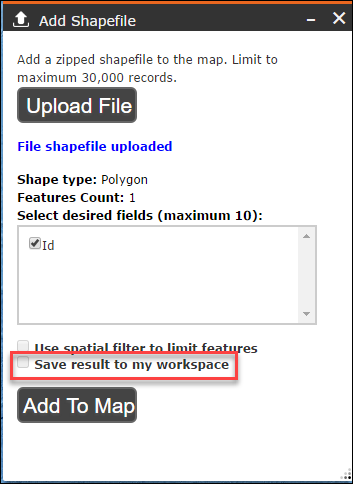
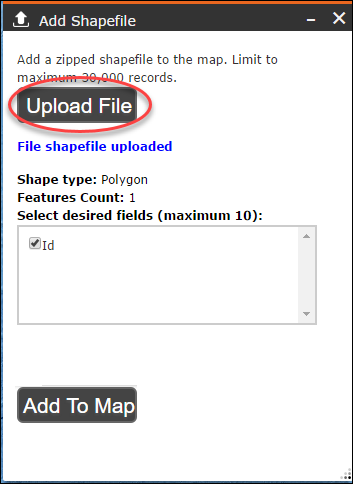
adds content

Changed region(s): [[0.0, 0.7128, 0.7479, 0.8058], [0.0, 0.155, 0.4363, 0.3099]]

diff --git a/Content/MapStudio/Functions/FilterAttributeTable.htm b/Content/MapStudio/Functions/FilterAttributeTable.htm
@@ -1,0 +1,50 @@
+<?xml version="1.0" encoding="utf-8"?>
+<html xmlns:MadCap="http://www.madcapsoftware.com/Schemas/MadCap.xsd" MadCap:lastBlockDepth="4" MadCap:lastHeight="3271" MadCap:lastWidth="1233">
+    <head>
+    </head>
+    <body>
+        <h1>Filtering Layers in the Attribute Table</h1>
+        <p>Once you have uploaded multiple shapefiles into <MadCap:variable name="General.ProductName" /> as polygons and have them displayed in <MadCap:variable name="General.MapStudio" />, you may find it difficult to find the polygon you wish to view. When this occurs you may find it helpful to filter your shapefiles using the attribute table. </p>
+        <div class="noteIFTDSS" MadCap:autonum="&lt;b&gt;Note: &lt;/b&gt;">Filtering works in the Attribute Table for all operational layers, but we will use shapefiles for this particular example.</div>
+        <p>Follow the steps below to filter by attribute.</p>
+        <MadCap:dropDown>
+            <MadCap:dropDownHead>
+                <MadCap:dropDownHotspot>Steps 1 - 4 :&#160;Selecting and viewing layers in the attribute table</MadCap:dropDownHotspot>
+            </MadCap:dropDownHead>
+            <MadCap:dropDownBody>
+                <p><b>Step 1:</b> Open the Attribute Table using the <span class="UIcomponent">Attribute Table</span> button <img src="../../Resources/Images/attributes_filter_polys/image00_2.png" alt="attribute table"></img>located in the bottom right of <MadCap:variable name="General.MapStudio"></MadCap:variable>. </p>
+                <p>Open <span class="UIcomponent">Layer List</span> <img src="../../Resources/Images/mapstudio/button_layerlist.png" alt="layer list button" /> and ensure the only the layers you wish to have included in your filter are selected, in this example only the Shapes layer is selected. This will automatically bring up all attributes from those layers, by default they are filtered by map extent.</p>
+                <p>
+                    <img src="../../Resources/Images/attributes_filter_polys/image06.png" style="width: 858px;height: 554px;" alt="map studio map with attribute table visible under the map" />
+                </p>
+                <p><b>Step 2:</b> Click on Filter by Map Extent along the top of the Attribute Table to disable this option (the text for this option will appear grayed out when it is disabled).</p>
+                <p>
+                    <img src="../../Resources/Images/attributes_filter_polys/image05.png" alt="attribute table with filter by map extent turned off" style="width: 796px;height: 254px;" />
+                </p>
+                <p><b>Step 3</b>:&#160;You can select the your desired polygon by left clicking once anywhere in the gray space to the left of each row. Selected rows will be highlighted in blue.</p>
+                <p>
+                    <img src="../../Resources/Images/attributes_filter_polys/image01.png" alt="attribute table with a blue highlighted row indicating it is selected" style="width: 624px;height: 289px;" />
+                </p>
+                <p>Step 4:&#160;Use the <span class="UIcomponent">Zoom To</span> option to zoom to selected polygons in <MadCap:variable name="General.MapStudio" />. Note selected polygons also show up in the same blue color as their selected rows in the Attribute Table.</p>
+                <p>
+                    <img src="../../Resources/Images/attributes_filter_polys/image02.png" alt="selected polygon shows up as blue when zoomed to in the map" style="width: 552px;height: 558px;" />
+                </p>
+            </MadCap:dropDownBody>
+        </MadCap:dropDown>
+        <MadCap:dropDown>
+            <MadCap:dropDownHead>
+                <MadCap:dropDownHotspot>Steps 5 and 6: Filtering using Queries</MadCap:dropDownHotspot>
+            </MadCap:dropDownHead>
+            <MadCap:dropDownBody>
+                <p><b>Step 5</b>:&#160;To only show specific polygons based on specific filter criteria, select <span class="UIcomponent">Filter</span> under <span class="UIcomponent">Options</span> <img src="../../Resources/Images/attributes_filter_polys/options.png" alt="options button" />. This allows you to filter by using one criteria by <span class="UIcomponent">Adding a Filter Expression</span>, or by using a set of criteria by <span class="UIcomponent">Adding an Expression Set</span>.</p>
+                <p>
+                    <img src="../../Resources/Images/attributes_filter_polys/image04.png" alt="the filter option with choices to add a filter expression or add a filter expression set" />
+                </p>
+                <p>Once you choose whether to use a single filter expression or an expression set, use the drop down fields to select your attribute, such as name, and your conditional statement, in this case, 'contains'. Next, type the specific value or term to filter, and select <span class="UIcomponent">OK</span>. For example, in the image below, we have created a filter expression that will only show polygons in which the attribute name contains 'Pete'. </p>
+                <p>
+                    <img src="../../Resources/Images/attributes_filter_polys/image03.png" alt="specifying the name and filter criteria in the provided text fields" />
+                </p>
+            </MadCap:dropDownBody>
+        </MadCap:dropDown>
+    </body>
+</html>

diff --git a/Content/MapStudio/Functions/AttributeTable.htm b/Content/MapStudio/Functions/AttributeTable.htm
@@ -1,0 +1,53 @@
+<?xml version="1.0" encoding="utf-8"?>
+<html xmlns:MadCap="http://www.madcapsoftware.com/Schemas/MadCap.xsd" MadCap:lastBlockDepth="6" MadCap:lastHeight="1304" MadCap:lastWidth="1207">
+    <head>
+    </head>
+    <body>
+        <h1>Attribute Table</h1>
+        <p>
+            <img src="../../Resources/Images/attributes_filter_polys/attribute_table.png" alt="Attribute table provides information on operational layers in a tabular format" style="width: 1030px;height: 187px;" />
+        </p>
+        <p>The<span class="UIcomponent"> Attribute Table</span> button in <MadCap:variable name="General.MapStudio" /> displays a tabular view of operational layers' attributes. You may show or hide the attribute table at the bottom of your map by selecting the <span class="UIcomponent">Attribute Table </span>button <img src="../../Resources/Images/attributes_filter_polys/image00_2.png" alt="Attribute Table button" />. Attributes available in the table include:&#160;</p>
+        <ul>
+            <li>ObjectID: Unique identification number for an object</li>
+            <li>Shape:&#160;<span class="comment" MadCap:conditions="General.DeveloperNotes">IBM fill in....</span></li>
+            <li>GIS_ID: <span class="comment" MadCap:conditions="General.DeveloperNotes">IBM fill in....</span></li>
+            <li>Name:&#160;Name of the object</li>
+            <li>XMin:&#160;Minimum X value </li>
+            <li>XMax:&#160;Maximum X value</li>
+            <li>YMin:&#160;Minimum Y value</li>
+            <li>YMax:&#160;Maximum Y value</li>
+            <li>Owner: Account owner who downloaded or created the object.</li>
+            <li>SHAPE_Length:&#160;Length of the shape <span class="comment" MadCap:conditions="General.DeveloperNotes">- do we need units here?</span></li>
+            <li>SHAPE_Area of the Shape <span class="comment" MadCap:conditions="General.DeveloperNotes">- do we need units here?</span></li>
+        </ul>
+        <MadCap:dropDown>
+            <MadCap:dropDownHead>
+                <MadCap:dropDownHotspot>Attribute Table Options</MadCap:dropDownHotspot>
+            </MadCap:dropDownHead>
+            <MadCap:dropDownBody>
+                <ul>
+                    <li><b>Show Selected Records</b>: Displays only selected records.</li>
+                    <li><b>Show Related Records</b>:&#160;Displays related records if a selected record has related table.</li>
+                    <li><b>Filter:&#160;Allows you to filter records in the table</b>. See the <a href="FilterAttributeTable.htm">Topic on Filtering Layers in the Attribute Table</a> for a more details.</li>
+                    <li><b>Show or Hide Columns</b>:&#160;This allows you to show or hide columns, you can also do this by selecting the + icon on the right side of the panel.</li>
+                    <li><b>Export to CSV</b>: Exports the attributes to a CSV file. If records are selected, only the selected records are exported. If no records are selected, all the records are exported. </li>
+                </ul>
+            </MadCap:dropDownBody>
+        </MadCap:dropDown>
+        <MadCap:dropDown>
+            <MadCap:dropDownHead>
+                <MadCap:dropDownHotspot>Other Attribute Table Controls</MadCap:dropDownHotspot>
+            </MadCap:dropDownHead>
+            <MadCap:dropDownBody>
+                <ul>
+                    <li><b>Filter by Map Extent</b>: <img src="../../Resources/Images/attributes_filter_polys/filter.png" alt="filter by map extent" /> Toggles between filtered results and unfiltered results in the Attribute Table</li>
+                    <li><b>Zoom To</b>:&#160;<img src="../../Resources/Images/attributes_filter_polys/zoomto.png" alt="zoom to" /> Zooms to a selected attribute within <MadCap:variable name="General.MapStudio" /></li>
+                    <li><b>Clear Selection</b>:<img src="../../Resources/Images/attributes_filter_polys/clearselection.png" alt="clear selection" />&#160;Clears your selections in the Attribute Table</li>
+                    <li><b>Refresh</b>:<img src="../../Resources/Images/attributes_filter_polys/refresh.png" alt="refresh" />&#160;Refreshes the Attribute Table with the most current data</li>
+                </ul>
+            </MadCap:dropDownBody>
+        </MadCap:dropDown>
+        <p>&#160;</p>
+    </body>
+</html>

diff --git a/Content/MapStudio/Files/ShapefileRepair.htm b/Content/MapStudio/Files/ShapefileRepair.htm
@@ -1,0 +1,32 @@
+<?xml version="1.0" encoding="utf-8"?>
+<html xmlns:MadCap="http://www.madcapsoftware.com/Schemas/MadCap.xsd" MadCap:lastBlockDepth="3" MadCap:lastHeight="2374" MadCap:lastWidth="1246">
+    <head>
+    </head>
+    <body>
+        <h1>How to Repair Uploaded Shapefiles</h1>
+        <p>When uploading shapefiles with multiple adjoining polygons, <MadCap:variable name="General.ProductName" /> will automatically join the polygons into a single dataset; this process may create erroneous gaps or vertices where these polygons once touched. The steps below outline the process of repairing or cleaning these polygons and re-saving them as a new shapefile. </p>
+        <p class="alertcomingsoon" MadCap:autonum="&lt;b&gt;More Functionality to Come! &lt;/b&gt;">These occasional gaps in adjoining polygons are a known issue which we will be resolving in a forthcoming version of <MadCap:variable name="General.ProductName" />.</p>
+        <h2>Step 1 Viewing your shapefile in <MadCap:variable name="General.MapStudio" /> </h2>
+        <p>Once you have <a href="../Functions/AddShapefile.htm">uploaded and saved your shapefile</a>, navigate to the <span class="UIcomponent">Layer List</span>, a checked box to the left of the shapefile confirms your layer is operational. If this box is not checked, click on the box to select it. If your shapefile is not visible in the <span class="UIcomponent">Layer List</span>, you may have to <a href="../Functions/ViewShapefileOnMap.htm">add it to your map</a>. Zoom to your shapefile by selecting the<span class="UIcomponent"> Zoom To</span> option under <span class="UIcomponent">More Options</span> in the top right of the <span class="UIcomponent">Layer List </span><img src="../../Resources/Images/mapstudio/button_moreoptions.png" />.</p>
+        <p>
+            <img src="../../Resources/Images/shapefile_repair/navigate_layerlist.png" alt="an icon with three dots in the top right of 'layer list' drops down the menu where you may 'zoom to' your shapefile." style="width: 346px;height: 383px;" />
+        </p>
+        <h2>Step 2 Enable Editing</h2>
+        <p>Open <b>Edit Tools</b> <img src="../../Resources/Images/mapstudio/button_editTools.png" alt="'edit tools' button" /> from the bottom of <MadCap:variable name="General.MapStudio" /> and</p>
+        <p> Select <span class="UIcomponent">Copy from Existing Features</span> <img src="../../Resources/Images/mapstudio/button_copy_exstng_ftrs.png" alt="Copy from existing features button" />. To only edit one polygon choose <span class="UIcomponent">Select Singlepart</span>, or edit multiple polygons choose <span class="UIcomponent">Select multipart</span>.</p>
+        <p> Scroll to the map and double left click the mouse button over the polygon you intend to edit, this will reveal the polygon vertices and an editing box</p>
+        <p>
+            <img src="../../Resources/Images/shapefile_repair/polygon_select.png" style="width: 562px;height: 402px;" alt="polygon in edit mode with vertices visible around the perimeter" />
+        </p>
+        <h2>Step 3 Edit your shapefile</h2>
+        <p>Move a vertex by hovering over it, holding down the left mouse key, and dragging it to the correct position. </p>
+        <p>Delete a vertex by hovering over it, clicking the right mouse button once, and selecting delete</p>
+        <p>
+            <img src="../../Resources/Images/shapefile_repair/polygon_vertexdelete.png" style="width: 610px;height: 433px;" alt="right clicking a vertex will cause the 'delete' option to pop up next to that vertex" />
+        </p>
+        <p>Continue your edits until you are satisfied with your shapefile. </p>
+        <h2>Step 4 Save your Edits</h2>
+        <p>When you are finished, save the corrections as a new shapefile by giving it a descriptive name in <span class="UIcomponent">Edit Tools</span>, specify the folder to save the file to, and select <span class="UIcomponent">Create</span>. The new shapefile will now be available in <span class="UIcomponent">MyWorkspace</span> for use throughout <MadCap:variable name="General.ProductName" />. <span class="comment" MadCap:conditions="General.DeveloperNotes">NOTE THIS&#160;FEATURE&#160;IS NOT&#160;WORKING&#160;CURRENTLY 2-28-17-JH</span></p>
+        <p>&#160;</p>
+    </body>
+</html>

diff --git a/Content/MapStudio/Functions/AddShapefile.htm b/Content/MapStudio/Functions/AddShapefile.htm
@@ -1,25 +1,22 @@
 <?xml version="1.0" encoding="utf-8"?>
-<html xmlns:MadCap="http://www.madcapsoftware.com/Schemas/MadCap.xsd" MadCap:lastBlockDepth="4" MadCap:lastHeight="1105" MadCap:lastWidth="2242">
+<html xmlns:MadCap="http://www.madcapsoftware.com/Schemas/MadCap.xsd" MadCap:lastBlockDepth="6" MadCap:lastHeight="3890" MadCap:lastWidth="1207">
     <head>
     </head>
     <body>
         <h1>Add a Shapefile</h1>
-        <p>Use the <span class="UIcomponent">Add Shapefile</span> <img src="../../Resources/Images/mapstudio/button_addshapefile.png" alt="orange add shapefile button" /> to add a shapefile in <MadCap:variable name="General.MapStudio" />. </p>
-        <ul>
-            <li>Select <span class="UIcomponent">Upload File</span>.</li>
-            <li>Choose your zipped shapefile</li>
-            <li>Select the desired fields from your shapefile using the checkbox next to each field name ( Up to 10)</li>
-            <li>Select <span class="UIcomponent">Upload File</span></li>
-            <li>Select <span class="UIcomponent">Add to Map</span></li>
-        </ul>
-        <div class="noteImportant" MadCap:autonum="&lt;b&gt;Important! &lt;/b&gt;">Uploaded shapefiles are visible on the map but are not automatically saved to <span class="UIcomponent">MyWorkspace</span>, they will be lost when you navigate away from <MadCap:variable name="General.MapStudio" /> unless they are saved to <span class="UIcomponent">MyWorkspace</span>. See the <b><a href="../Files/ShapefileSaving.htm">Topic on Saving Shapefiles</a></b> to complete this important step.</div>
-        <p MadCap:conditions="General.LaterRelease">
-            <img src="../../Resources/Images/mapstudio/box_AddShapefile.png" alt="Add shapefile box with the option to save the result to 'my workspace' highlighted" style="width: 281px;height: 385px;" />
+        <p>Use the <span class="UIcomponent">Add Shapefile</span> <img src="../../Resources/Images/mapstudio/button_addshapefile.png" alt="orange add shapefile button" /> to begin adding a shapefile in <MadCap:variable name="General.MapStudio" />. </p>
+        <p>Select <span class="UIcomponent">Upload File</span>.</p>
+        <p>
+            <img src="../../Resources/Images/mapstudio/box_AddShapefile.png" style="width: 291px;height: 398px;" alt="use the 'upload shapefile' button in the 'add shapefile' box to upload your zipped shapefiles" />
         </p>
-        <ul MadCap:conditions="General.LaterRelease">
-            <li>To save the shapefile, make sure to check <span class="UIcomponent">Save result to my workspace</span>.</li>
-            <li>When finished, click <span class="UIcomponent">Add to map</span>.</li>
-            <li>To add a shapefile to  it must contain shp, .shx, .dbf, and .prj files, and be in a compressed (zipped) file format. Visit the <a href="../Files/ShapefileInfo.htm">About Shapefiles topic</a> for full details on shapefiles in <MadCap:variable name="General.ProductName" />.</li>
-        </ul>
+        <p>Choose your zipped shapefile from your local drive</p>
+        <p>Select the desired fields from your shapefile using the checkbox next to each field name (Up to 10)</p>
+        <p>Select <span class="UIcomponent">Upload File</span></p>
+        <p>Select <span class="UIcomponent">Add to Map</span></p>
+        <p>Next you will save your shapefile.</p>
+        <p><a name="Saving_Shapefiles_for_Future_Use"></a>
+        </p>
+        <h2><a name="Saving"></a>Saving Shapefiles for Future Use</h2>
+        <MadCap:snippetBlock src="../../Resources/Snippets/MapStudio/ShapefileSaving.flsnp" />
     </body>
 </html>

diff --git a/Content/MapStudio/Files/ShapefileInfo.htm b/Content/MapStudio/Files/ShapefileInfo.htm
@@ -1,5 +1,5 @@
 <?xml version="1.0" encoding="utf-8"?>
-<html xmlns:MadCap="http://www.madcapsoftware.com/Schemas/MadCap.xsd" MadCap:lastBlockDepth="8" MadCap:lastHeight="4741" MadCap:lastWidth="1181">
+<html xmlns:MadCap="http://www.madcapsoftware.com/Schemas/MadCap.xsd" MadCap:lastBlockDepth="8" MadCap:lastHeight="4642" MadCap:lastWidth="1181">
     <head>
     </head>
     <body>
@@ -55,7 +55,7 @@
                     <li>Files containing more than 1,000 features cannot be added to a map.</li>
                     <li>The shapefile must be less than 10 MB in size.</li>
                     <li>The following features are not supported: multipatch or multipoint geometries, geometries that cross the dateline, or self-intersections in polygons. Shapefiles with these features cannot be added to a map.</li>
-                    <li>Shapefiles cannot be dragged directly onto <MadCap:variable name="General.MapStudio" />; you must use the Add Shapefile button in the <MadCap:variable name="General.MapStudio" />.</li>
+                    <li>Shapefiles cannot be dragged directly onto <MadCap:variable name="General.MapStudio" />; you must use the <span class="UIcomponent">Add Shapefile</span> button in the <MadCap:variable name="General.MapStudio" />.</li>
                 </ul>
             </MadCap:dropDownBody>
         </MadCap:dropDown>

diff --git a/Content/MapStudio/Functions/ViewShapefileOnMap.htm b/Content/MapStudio/Functions/ViewShapefileOnMap.htm
@@ -1,0 +1,16 @@
+<?xml version="1.0" encoding="utf-8"?>
+<html xmlns:MadCap="http://www.madcapsoftware.com/Schemas/MadCap.xsd" MadCap:lastBlockDepth="4" MadCap:lastHeight="580" MadCap:lastWidth="1233">
+    <head>
+    </head>
+    <body>
+        <h1>Viewing a Shapefile in <MadCap:variable name="General.MapStudio" /></h1>
+        <p>To view a shapefile in <MadCap:variable name="General.MapStudio" />, navigate to <span class="UIcomponent">MyWorkspace</span>, locate the relevant folder, and:</p>
+        <ol style="list-style-type: upper-alpha;">
+            <li> Double click your desired shapefile</li>
+            <li>Select <span class="UIcomponent">View on Map</span></li>
+        </ol>
+        <p>
+            <img src="../../Resources/Images/mapstudio/view_shapefile.png" style="width: 937px;height: 329px;" alt="MyWorkspace file list showing a shapefile and a gray 'View on Map' button" />
+        </p>
+    </body>
+</html>
